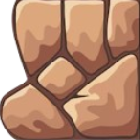
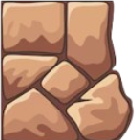
Added Map but bug is still remain

diff --git a/player.py b/player.py
@@ -1,4 +1,3 @@
-
 import pygame
 from settings import PLAYER_ANIMATION, PLAYER_SIZE, BULLET_SIZE, BULLET_SPEED, SCREEN_THRUST_X, SCREEN_THRUST_Y, bullet_image
 
@@ -29,8 +28,11 @@ class Player(pygame.sprite.Sprite):
         # Set initial frame and position
         self.image = self.animations[self.current_action][self.frame_index]
         self.rect = self.image.get_rect()
-        self.rect.midbottom = (200, 300)  # Changed from center to midbottom
+        self.rect.midbottom = (0, 600)  # Changed from center to midbottom
+        self.screen_height = 600  # Add your actual screen height
+        self.target_y = self.screen_height - 70   # Position player near bottom
 
+        
     def load_animations(self):
         """Load animations from the defined data."""
         for action, data in PLAYER_ANIMATION.items():
@@ -61,31 +63,28 @@ class Player(pygame.sprite.Sprite):
         dy = 0
         screen_dx = 0
         screen_dy = 0
-        
         keys = pygame.key.get_pressed()
-
-        # Reset action to determine new animation
         new_action = None
 
         # Handle Jumping
         if keys[pygame.K_w] and not self.InAir and not self.isReloading and not self.isShooting:
             self.InAir = True
-            self.vel_y = -11  # Jump velocity
+            self.speed = 4
+            self.vel_y = -11
             new_action = "Jump"
 
         # Allow horizontal movement even while in the air
         if (keys[pygame.K_a] or keys[pygame.K_d]) and (not self.isReloading and not self.isShooting):
             if keys[pygame.K_a]:
-                dx = -self.speed  # Move left
+                dx = -self.speed
                 self.direction = -1
             elif keys[pygame.K_d]:
-                dx = self.speed  # Move right
+                dx = self.speed
                 self.direction = 1
 
-            # Set "Walk" or "Run" animations only if on the ground
             if not self.InAir and not self.isReloading and not self.isShooting:
                 if keys[pygame.K_LSHIFT]:
-                    dx *= 2  # Running speed
+                    dx *= 2
                     new_action = "Run"
                 else:
                     new_action = "Walk"
@@ -100,58 +99,56 @@ class Player(pygame.sprite.Sprite):
             new_action = "Hurt"
 
         # Idle animation if no other actions are active
-        elif not self.InAir and not (keys[pygame.K_a] or keys[pygame.K_d] or keys[pygame.K_SPACE] ) and not self.isReloading:
+        elif not self.InAir and not (keys[pygame.K_a] or keys[pygame.K_d] or keys[pygame.K_SPACE]) and not self.isReloading:
             if not self.current_action == "Hurt":
                 new_action = "idle"
 
         # Update animation if needed
-        if new_action :
+        if new_action:
             self.update_animation(new_action)
 
-       # Apply gravity
-        self.vel_y += 0.5  # Simulate gravity
-        dy += self.vel_y
+        # Apply gravity
+        self.vel_y += 0.5
+        dy = self.vel_y
 
-        # Calculate new position
+        # Handle horizontal movement and collisions
         new_x = self.rect.x + dx
-        new_y = self.rect.y + dy
+        player_rect_horizontal = self.rect.copy()
+        player_rect_horizontal.x = new_x
 
-        # Create a temporary rect for collision detection
-        player_rect = pygame.Rect(new_x, new_y, self.rect.width, self.rect.height)
-
-        # Check for collisions with ground group
+        # Check horizontal collisions
+        horizontal_collision = False
         for ground in ground_group:
-            if player_rect.colliderect(ground.rect):
-                # Calculate the overlap on each side
-                overlap_left = player_rect.right - ground.rect.left
-                overlap_right = ground.rect.right - player_rect.left
-                overlap_top = player_rect.bottom - ground.rect.top
-                overlap_bottom = ground.rect.bottom - player_rect.top
+            if player_rect_horizontal.colliderect(ground.rect):
+                if dx > 0:
+                    dx = ground.rect.left - self.rect.right
+                elif dx < 0:
+                    dx = ground.rect.right - self.rect.left
+                break
 
-                # Find the smallest overlap to determine the side of collision
-                min_overlap = min(overlap_left, overlap_right, overlap_top, overlap_bottom)
+        self.rect.x += dx
 
-                if min_overlap == overlap_top:
-                    # Collision from the top (landing)
+        # Handle vertical movement and collisions
+        new_y = self.rect.y + dy
+        player_rect_vertical = self.rect.copy()
+        player_rect_vertical.y = new_y
+
+        # Check vertical collisions
+        self.InAir = True  # Assume in air until collision is detected
+        for ground in ground_group:
+            if player_rect_vertical.colliderect(ground.rect):
+                if dy > 0:  # Falling down
                     self.vel_y = 0
-                    self.InAir = False
                     dy = ground.rect.top - self.rect.bottom
-                elif min_overlap == overlap_bottom:
-                    # Collision from the bottom (hit the ceiling)
+                    self.InAir = False
+                elif dy < 0:  # Moving up
                     self.vel_y = 0
                     dy = ground.rect.bottom - self.rect.top
-                elif min_overlap == overlap_left:
-                    # Collision from the left
-                    dx = ground.rect.left - self.rect.right
-                elif min_overlap == overlap_right:
-                    # Collision from the right
-                    dx = ground.rect.right - self.rect.left
+                break
 
-        # Update the player's position
-        self.rect.x += dx
         self.rect.y += dy
 
-        # Screen scrolling logic
+        # Horizontal scrolling
         if self.rect.right > SCREEN_THRUST_X:
             screen_dx = dx
             self.rect.x -= dx
@@ -159,24 +156,16 @@ class Player(pygame.sprite.Sprite):
             screen_dx = dx
             self.rect.x -= dx
 
-        # Vertical scrolling logic
-        if self.vel_y < 0:  # Moving upward
-            if self.rect.top < SCREEN_THRUST_Y:
-                screen_dy = dy
-                self.rect.y -= dy
-        elif self.vel_y > 0:  # Moving downward
-            if self.rect.bottom > SCREEN_THRUST_Y + 200:  # Add some buffer for downward movement
-                screen_dy = dy
-                self.rect.y -= dy
-
-        # Restrict player within horizontal boundaries
-        if self.rect.right > 800:
-            self.rect.right = 800
-        if self.rect.left < 0:
-            self.rect.left = 0
+        # Vertical scrolling (only when in air)
+        if self.rect.bottom > self.target_y:
+            screen_dy = self.rect.bottom - self.target_y
+            self.rect.bottom = self.target_y
+        elif self.vel_y < 0 and self.rect.bottom < self.target_y:
+            screen_dy = dy
+            self.rect.y -= dy
+        print(screen_dy, screen_dx)
 
         return screen_dx, screen_dy
-
 
     def update(self):
         current_time = pygame.time.get_ticks()
@@ -223,14 +212,11 @@ class Player(pygame.sprite.Sprite):
             if new_action == "idle":
                 self.isShooting = False
 
-
     def draw(self, screen):
         self.image = pygame.transform.scale(self.image, PLAYER_SIZE)
-
-        # For testing draw a rectangle with different color than the sprite
-        # pygame.draw.rect(screen, (255, 0, 0), self.rect, 2)
-
         screen.blit(self.image, self.rect)
+        # Create self.target_y line
+        pygame.draw.line(screen, (255, 0, 0), (0, self.target_y), (800, self.target_y), 2)
 
 
 class Bullet(pygame.sprite.Sprite):

diff --git a/main.py b/main.py
@@ -2,7 +2,7 @@ import pygame
 import sys
 import json
 from player import Player, bullet_group
-from settings import screen, ground_group, SCREEN_WIDTH, SCREEN_HEIGHT, background_image
+from settings import screen, ground_group, enemy_group, background_image
 
 # Initialize Pygame
 pygame.init()
@@ -11,8 +11,6 @@ pygame.init()
 pygame.display.set_caption("Gangster Game")
 clock = pygame.time.Clock()
 
-WIDTH = 50
-HEIGHT = 30
 
 # GAME VARIABLES
 bg_scroll_x = 0
@@ -26,23 +24,24 @@ def create_map():
     
     height = len(maze_layout)
     width = len(maze_layout[0])
-    CELL_SIZE = (SCREEN_HEIGHT // height) 
-
+    CELL_SIZE = 80
     
+    # First create all ground tiles without any offset
     for y, row in enumerate(maze_layout):
         for x, cell in enumerate(row):
-            
             world_x = x * CELL_SIZE
             world_y = y * CELL_SIZE
             
-            
-            if cell > 0 and cell < 7:  # Ground
+            if cell > 0 and cell < 6:  # Ground
                 ground = Ground(world_x, world_y, cell)
                 ground_group.add(ground)
+            elif cell == 7:  # Enemy
+                enemy = Enemy(world_x, world_y)
+                enemy_group.add(enemy)
+            elif cell == 8:  # Player
+                player.rect.midbottom = (world_x + CELL_SIZE // 2, world_y)  # Center player horizontally
 
-            if cell == 8:
-                player.rect.midbottom = (world_x, world_y)
-                player.rect.y -= 30
+
             
 class Ground(pygame.sprite.Sprite):
     def __init__(self, x, y, image):
@@ -50,15 +49,29 @@ class Ground(pygame.sprite.Sprite):
         self.image = pygame.image.load(f"assets/map/{image}.png")
         self.image = pygame.transform.scale(self.image, (CELL_SIZE, CELL_SIZE))
         self.rect = self.image.get_rect()
-        self.rect.bottomleft = (x, y)
+        self.rect.center = (x, y)
+    
+    def update(self, bg_scroll_x, bg_scroll_y):
+        self.rect.x -= bg_scroll_x
+        self.rect.y -= bg_scroll_y
+
+
+class Enemy(pygame.sprite.Sprite):
+    def __init__(self, x, y):
+        super().__init__()
+        self.image = pygame.Surface((50, 50))
+        self.image.fill((255, 0, 0))
+        self.image = pygame.transform.scale(self.image, (CELL_SIZE, CELL_SIZE))
+        self.rect = self.image.get_rect()
+        self.rect.center = (x, y)
     
     def update(self):
         self.rect.x -= bg_scroll_x
-        self.rect.y -=bg_scroll_y
+        self.rect.y -= bg_scroll_y
 
-    
+
 player = Player()
-create_map()
+initial_camera_offset = create_map()
 
 
 
@@ -83,6 +96,7 @@ def main():
         
         # Update and draw the player
         bg_scroll_x, bg_scroll_y = player.move(ground_group)
+        
         player.update()
         player.draw(screen)
 
@@ -91,10 +105,15 @@ def main():
         bullet_group.draw(screen)
 
         # Update and draw the ground
+        for ground in ground_group:
+            ground.update(bg_scroll_x, bg_scroll_y)
         ground_group.draw(screen)
-        ground_group.update()
-
-
+        
+        # Update and draw the enemy
+        for enemy in enemy_group:
+            enemy.update()
+        
+        enemy_group.draw(screen)
 
 
 

diff --git a/settings.py b/settings.py
@@ -9,12 +9,13 @@ screen = pygame.display.set_mode((SCREEN_WIDTH, SCREEN_HEIGHT))
 # All Sprite
 bullet_group = pygame.sprite.Group()
 ground_group = pygame.sprite.Group()
+enemy_group = pygame.sprite.Group()
 
 # Constants
 
 BULLET_SIZE = (10, 5)
 BULLET_SPEED = 20
-PLAYER_SIZE = (50, 60)  # Target size for each frame
+PLAYER_SIZE = (80, 100)  # Target size for each frame
 SCREEN_THRUST_X = SCREEN_HEIGHT - 200
 SCREEN_THRUST_Y = SCREEN_HEIGHT // 2
 
